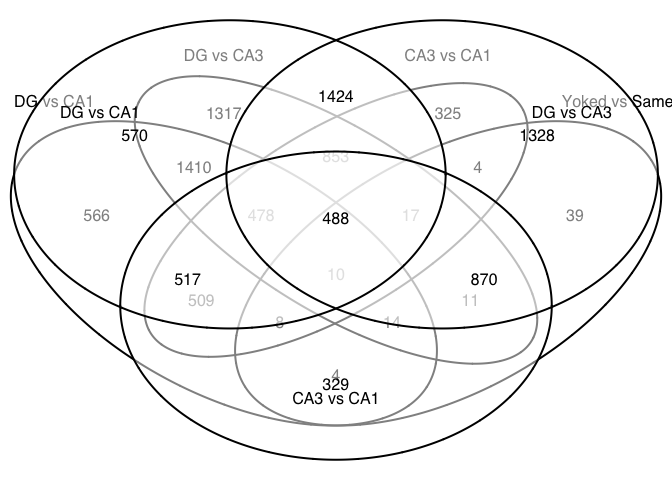
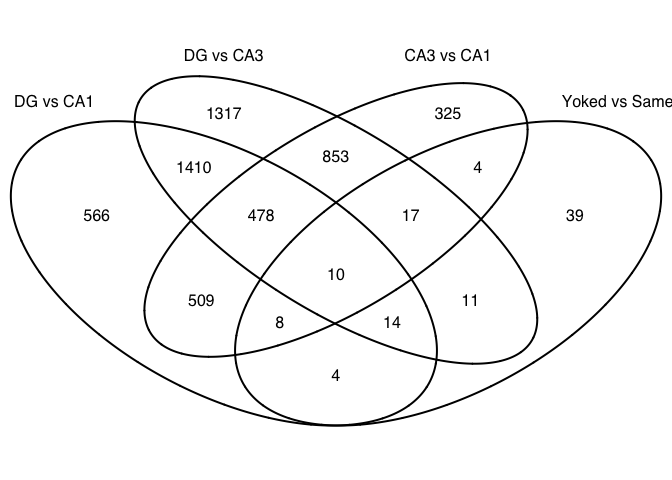
now with better venns

diff --git a/RmdFiles/Fig3_rnaseq.md b/RmdFiles/Fig3_rnaseq.md
@@ -518,6 +518,12 @@ prettyvenn <- venn.diagram(
   #cat.dist = c(0.08, 0.08, 0.08), cat.pos = 1,
   cat.cex = 1, cat.fontfamily = "sans")
 grid.draw(prettyvenn)
+```
+
+![](../figures/Fig3/venndiagram-1.png)
+
+``` r
+plot.new()
 
 candidates <- list("DG vs CA1" = venn1, "DG vs CA3" = venn3,  "CA3 vs CA1" = venn2)
 
@@ -534,7 +540,7 @@ prettyvenn <- venn.diagram(
 grid.draw(prettyvenn)
 ```
 
-![](../figures/Fig3/venndiagram-1.png)
+![](../figures/Fig3/venndiagram-2.png)
 
 Now let's look at a heat map of the data
 
